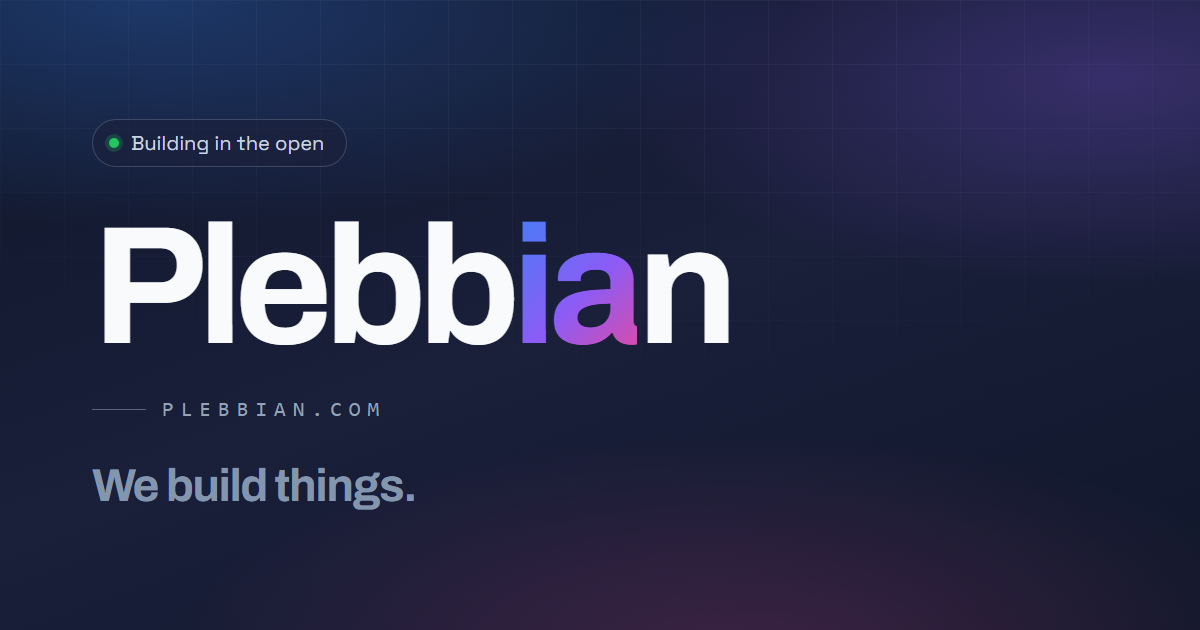
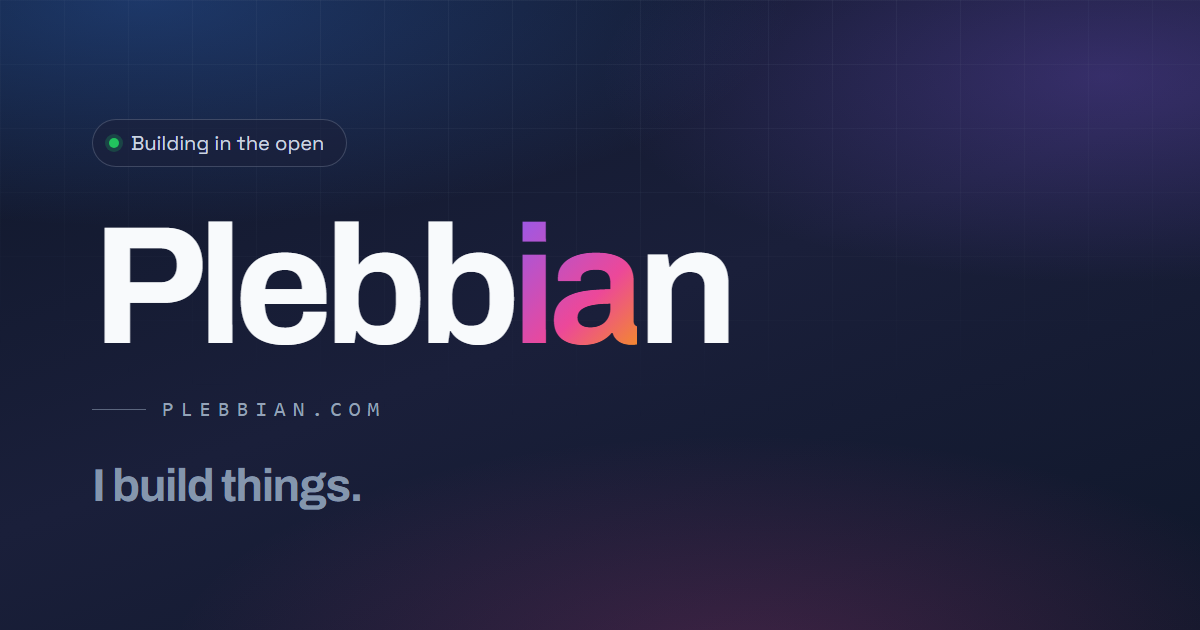
Slow the wordmark down, rework the AI glow, switch copy to first person
Glow
- The AI glyphs are now outlined rather than filled: transparent fill
  with a 1.6px stroke whose colour drifts between pink and gold, and a
  soft bloom breathing behind them over 3.8s. The two letters carry
  offset animation delays so the drift reads as a wave through the pair
  rather than one flat blink.
- The glow was rendering as a rectangle because .wordmark.animating .g
  set overflow:hidden on every glyph, which clipped each letter's
  text-shadow to its element box. Clipping is now scoped to the slots
  that actually collapse (b, n, the space), and the halo is a
  drop-shadow() chain, which samples the glyph's alpha and so takes the
  shape of the letters. Verified: max single-pixel luminance step
  around a lit glyph is 0.79/255, at a different x on each row — no
  hard edge anywhere.
- Outline hands over to the settled gradient on a case-flicker frame,
  so the fill-in is covered by a character change instead of popping.
  The settled ia keeps a faint bloom in dark mode and none in light,
  where a glow behind dark text only reads as smudge.
- Settled gradient rewarmed to violet -> pink -> gold to match.

Pacing, 3.9s -> 5.0s
- AI glide lengthened to 1.05s with a gentler curve, and it now holds
  for ~1.3s glowing alone before b and n arrive
- Swap arc 620ms -> 760ms with a softer easing; case cycle slowed

Copy
- Every plural pronoun is now singular: "I build things", "What I do",
  "How I work", "Come build with me", "drop me a line", "Email me"
[…]

Changed region(s): [[0.0617, 0.7238, 0.3392, 0.8143], [0.4317, 0.3317, 0.555, 0.5429]]

diff --git a/assets/wordmark.js b/assets/wordmark.js
@@ -63,7 +63,7 @@
         root.classList.remove('animating');
         glyphs.forEach(function (g) {
             g.removeAttribute('style');
-            g.classList.remove('lit', 'swapping');
+            g.classList.remove('lit', 'filling', 'swapping');
         });
         ai1.textContent = 'i';
         ai2.textContent = 'a';
@@ -127,42 +127,48 @@
             g.style.transition = 'none';
             g.style.opacity = '0';
             g.style.transform = 'translateY(0.22em)';
-            at(40 + i * 70, function () {
-                g.style.transition = 'opacity 0.4s ease, transform 0.5s var(--ease)';
+            at(60 + i * 105, function () {
+                g.style.transition = 'opacity 0.5s ease, transform 0.6s var(--ease)';
                 g.style.opacity = '1';
                 g.style.transform = 'none';
             });
         });
 
-        /* ---- beat 2: "Pleb AI" — AI glides in from the right ---------- */
-        at(560, function () {
+        /* ---- beat 2: "Pleb AI" — AI drifts in from the right ---------- */
+        at(700, function () {
             slotSpace.style.width = spaceWidth + 'px';
 
             [ai1, ai2].forEach(function (g, i) {
                 g.classList.add('lit');
+                // Offset the two glyphs' pulse so the pink/gold drift reads as
+                // a wave moving through the pair rather than one flat blink.
+                g.style.animationDelay = (i * -0.9) + 's';
                 g.style.transition = 'none';
                 g.style.width = uniform + 'px';
-                // Off to the right, the far letter trailing slightly behind.
-                g.style.transform = 'translateX(' + (340 + i * 90) + 'px)';
+                // Off to the right, the far letter trailing behind.
+                g.style.transform = 'translateX(' + (330 + i * 110) + 'px)';
                 g.style.opacity = '0';
 
                 at(30, function () {
+                    // Long, decelerating glide — the "chill" part.
                     g.style.transition =
-                        'transform 0.78s var(--ease) ' + (i * 0.07) + 's, opacity 0.5s ease ' + (i * 0.07) + 's';
+                        'transform 1.05s cubic-bezier(0.16, 1, 0.3, 1) ' + (i * 0.1) + 's,' +
+                        'opacity 0.75s ease ' + (i * 0.1) + 's';
                     g.style.transform = 'none';
                     g.style.opacity = '1';
                 });
             });
         });
 
-        /* ---- beat 3: "PlebbAIn" — b and n float in ------------------- */
-        at(1480, function () {
+        /* ---- beat 3: "PlebbAIn" — b and n float in -------------------
+           Held a moment first so the outline glow gets to breathe alone. */
+        at(2050, function () {
             slotSpace.style.width = '0px';
             [[slotB, naturalB], [slotN, naturalN]].forEach(function (pair, i) {
                 var g = pair[0];
-                at(i * 120, function () {
+                at(i * 130, function () {
                     g.style.transition =
-                        'width 0.5s var(--ease), opacity 0.42s ease, transform 0.55s var(--ease)';
+                        'width 0.55s var(--ease), opacity 0.5s ease, transform 0.6s var(--ease)';
                     g.style.width = pair[1] + 'px';
                     g.style.opacity = '1';
                     g.style.transform = 'none';
@@ -171,11 +177,11 @@
         });
 
         /* ---- beat 4: "PlebbIAn" — the swap, on an arc ---------------- */
-        at(2180, function () {
+        at(2950, function () {
             // Both slots share `uniform` width, so the centre-to-centre
             // distance is symmetric and the exchange is exact.
             var d = ai2.getBoundingClientRect().left - ai1.getBoundingClientRect().left;
-            var dur = 620;
+            var dur = 760;
 
             function arc(el, dx, lift) {
                 if (!el.animate) {
@@ -187,7 +193,7 @@
                     { transform: 'translateX(0) translateY(0)' },
                     { transform: 'translateX(' + (dx / 2) + 'px) translateY(' + lift + 'em)' },
                     { transform: 'translateX(' + dx + 'px) translateY(0)' }
-                ], { duration: dur, easing: 'cubic-bezier(0.65, 0, 0.35, 1)', fill: 'forwards' });
+                ], { duration: dur, easing: 'cubic-bezier(0.5, 0, 0.5, 1)', fill: 'forwards' });
             }
 
             ai1.classList.add('swapping');
@@ -213,39 +219,48 @@
         });
 
         /* ---- beat 5: case cycles down to "Plebbian" ------------------ */
-        at(2900, function () {
+        at(3820, function () {
             var frames = [
                 ['i', 'a'], ['I', 'A'], ['i', 'a'], ['I', 'A'], ['i', 'a']
             ];
+            var step = 115;
+
             frames.forEach(function (pair, i) {
-                at(i * 88, function () {
+                at(i * step, function () {
                     ai1.textContent = pair[0];
                     ai2.textContent = pair[1];
+
+                    // Swap outline for the settled gradient on a flicker frame:
+                    // the character change covers the handover, so the fill-in
+                    // reads as intentional rather than as a pop.
+                    if (i === 2) {
+                        root.classList.add('settled');
+                        [ai1, ai2].forEach(function (g) {
+                            g.classList.add('filling');
+                            g.classList.remove('lit');
+                        });
+                    }
                 });
             });
 
-            // Glow retires into the permanent gradient tint, and the slots
-            // relax from the uniform box to their true widths.
-            at(frames.length * 88 + 60, function () {
-                ai1.classList.remove('lit');
-                ai2.classList.remove('lit');
-                root.classList.add('settled');
-                ai1.style.transition = 'width 0.45s var(--ease)';
-                ai2.style.transition = 'width 0.45s var(--ease)';
-                ai1.style.width = naturalAi1 + 'px';
-                ai2.style.width = naturalAi2 + 'px';
+            // Slots relax from the uniform box back to their true widths.
+            at(frames.length * step + 70, function () {
+                [[ai1, naturalAi1], [ai2, naturalAi2]].forEach(function (pair) {
+                    pair[0].style.transition = 'width 0.5s var(--ease)';
+                    pair[0].style.width = pair[1] + 'px';
+                });
             });
         });
 
         /* ---- beat 6: the domain stamp -------------------------------- */
-        at(3260, function () {
+        at(4380, function () {
             if (!domain) return;
             domain.classList.add('revealing');
             domain.classList.remove('pending');
         });
 
         /* ---- cleanup: hand layout back to normal text flow ----------- */
-        at(3820, function () {
+        at(4980, function () {
             settle();
             try { sessionStorage.setItem(SESSION_KEY, '1'); } catch (e) { /* private mode */ }
         });

diff --git a/assets/style.css b/assets/style.css
@@ -84,6 +84,7 @@
     --shadow-lg: 0 26px 70px rgba(2, 6, 23, 0.62);
     --dot: rgba(148, 163, 184, 0.55);
     --grid-line: rgba(148, 163, 184, 0.06);
+    --ai-rest-glow: drop-shadow(0 0 12px rgba(236, 72, 153, 0.28));
 }
 
 :root[data-theme='light'] {
@@ -113,6 +114,8 @@
     --shadow-lg: 0 26px 70px rgba(15, 23, 42, 0.14);
     --dot: rgba(51, 65, 85, 0.5);
     --grid-line: rgba(15, 23, 42, 0.05);
+    /* A bloom behind dark text on a light page just reads as smudge. */
+    --ai-rest-glow: none;
 }
 
 /* --------------------------------------------------------------------------
@@ -748,10 +751,12 @@ kbd {
    so the static logo still carries the idea after the animation ends. */
 .wordmark.settled .g.ai,
 .wordmark:not(.animating) .g.ai {
-    background: linear-gradient(135deg, var(--blue), var(--violet) 55%, var(--pink));
+    background: linear-gradient(135deg, var(--violet), var(--pink) 60%, var(--amber));
     -webkit-background-clip: text;
     background-clip: text;
     -webkit-text-fill-color: transparent;
+    /* A whisper of the bloom stays, so settling isn't an abrupt cut. */
+    filter: var(--ai-rest-glow, none);
 }
 
 /* While the sequence runs, glyphs are absolute-width flex slots so
@@ -762,26 +767,58 @@ kbd {
 }
 
 .wordmark.animating .g {
-    overflow: hidden;
-    transition: width 0.55s var(--ease), opacity 0.45s ease, transform 0.55s var(--ease);
+    transition: width 0.6s var(--ease), opacity 0.5s ease, transform 0.6s var(--ease);
 }
 
-.wordmark.animating .g.spacer { transition: width 0.5s var(--ease); }
+/* Only the slots that collapse to zero need clipping. Applying it to the AI
+   glyphs would chop their glow off square at the element box — which is why
+   the halo must be a filter, never a text-shadow on a clipped box. */
+.wordmark.animating .g.collapsible { overflow: hidden; }
 
-/* "AI" while it is still AI: a slow breathing bloom, not a hard neon. */
-.wordmark.animating .g.ai.lit {
-    -webkit-text-fill-color: currentColor;
-    color: #fff;
-    text-shadow:
-        0 0 14px color-mix(in srgb, var(--violet) 85%, transparent),
-        0 0 38px color-mix(in srgb, var(--blue) 65%, transparent),
-        0 0 76px color-mix(in srgb, var(--violet) 45%, transparent);
-    animation: aiBreathe 2.6s ease-in-out infinite;
+.wordmark.animating .g.spacer { transition: width 0.55s var(--ease); }
+
+/* --------------------------------------------------------------------------
+   "AI" while it is still AI: outlined letters in pink and gold, with the
+   stroke colour drifting between the two and a soft bloom breathing behind.
+
+   drop-shadow() samples the glyph's alpha, so the glow takes the shape of
+   the letters. box-shadow or a text-shadow inside an overflow-hidden box
+   would both give away the rectangle.
+   -------------------------------------------------------------------------- */
+.wordmark .g.ai.lit {
+    background: none;
+    -webkit-text-fill-color: transparent;
+    color: transparent;
+    -webkit-text-stroke: 1.6px var(--pink);
+    animation: aiDrift 3.8s ease-in-out infinite;
+    /* Slow enough to read as breathing rather than blinking. */
+    transition: -webkit-text-stroke-width 0.6s ease, filter 0.6s ease;
 }
 
-@keyframes aiBreathe {
-    0%, 100% { opacity: 0.92; }
-    50%      { opacity: 1; }
+@keyframes aiDrift {
+    0%, 100% {
+        -webkit-text-stroke-color: #ec4899;
+        filter:
+            drop-shadow(0 0 5px color-mix(in srgb, var(--pink) 78%, transparent))
+            drop-shadow(0 0 17px color-mix(in srgb, var(--amber) 40%, transparent))
+            drop-shadow(0 0 38px color-mix(in srgb, var(--pink) 24%, transparent));
+    }
+    50% {
+        -webkit-text-stroke-color: #f59e0b;
+        filter:
+            drop-shadow(0 0 8px color-mix(in srgb, var(--amber) 82%, transparent))
+            drop-shadow(0 0 24px color-mix(in srgb, var(--pink) 46%, transparent))
+            drop-shadow(0 0 50px color-mix(in srgb, var(--amber) 26%, transparent));
+    }
+}
+
+/* The moment the outline fills in: stroke thins away to nothing while the
+   settled gradient takes over underneath, and the bloom retires. */
+.wordmark .g.ai.filling {
+    -webkit-text-stroke-width: 0;
+    animation: none;
+    filter: drop-shadow(0 0 14px color-mix(in srgb, var(--pink) 30%, transparent));
+    transition: -webkit-text-stroke-width 0.55s ease, filter 0.7s ease;
 }
 
 .wordmark .g.swapping {

diff --git a/index.html b/index.html
@@ -3,7 +3,7 @@
 <head>
     <meta charset="UTF-8">
     <meta name="viewport" content="width=device-width, initial-scale=1.0">
-    <meta name="description" content="Plebbian — a small crew shipping community tools, open-source utilities and experiments worth using. Building in the open.">
+    <meta name="description" content="Plebbian — I ship community tools, open-source utilities and experiments worth using. Building in the open.">
     <meta name="author" content="Plebbian">
     <meta name="theme-color" content="#0f172a">
 
@@ -142,7 +142,7 @@
                     <!-- Resting state is the real wordmark; the sequence in
                          wordmark.js is purely additive. Whitespace between
                          these spans would render as gaps, so there is none. -->
-                    <span class="wordmark" id="wordmark" aria-hidden="true"><span class="g">P</span><span class="g">l</span><span class="g">e</span><span class="g">b</span><span class="g" data-role="b2">b</span><span class="g spacer" data-role="space"></span><span class="g ai" data-role="ai1">i</span><span class="g ai" data-role="ai2">a</span><span class="g" data-role="n">n</span></span>
+                    <span class="wordmark" id="wordmark" aria-hidden="true"><span class="g">P</span><span class="g">l</span><span class="g">e</span><span class="g">b</span><span class="g collapsible" data-role="b2">b</span><span class="g spacer collapsible" data-role="space"></span><span class="g ai" data-role="ai1">i</span><span class="g ai" data-role="ai2">a</span><span class="g collapsible" data-role="n">n</span></span>
                 </h1>
 
                 <p class="wm-domain" id="wmDomain">
@@ -153,11 +153,11 @@
                     </button>
                 </p>
 
-                <p class="hero-tagline">We build things.</p>
+                <p class="hero-tagline">I build things.</p>
 
                 <p class="hero-copy">
-                    A small crew shipping community tools, open-source utilities and
-                    experiments worth using. No hype, no lock-in — just software that works.
+                    I ship community tools, open-source utilities and experiments worth
+                    using. No hype, no lock-in — just software that works.
                 </p>
 
                 <div class="hero-actions">
@@ -182,11 +182,11 @@
             </div>
         </section>
 
-        <!-- ======================= What we do ======================= -->
+        <!-- ======================= What I do ======================= -->
         <section id="what">
             <div class="wrap">
                 <div class="section-head reveal">
-                    <span class="eyebrow">What we do</span>
+                    <span class="eyebrow">What I do</span>
                     <h2>Three things, <span class="muted">done properly.</span></h2>
                 </div>
 
@@ -248,7 +248,7 @@
         <section id="join">
             <div class="wrap">
                 <div class="contact reveal">
-                    <h2>Come build with <span class="gradient-text">us.</span></h2>
+                    <h2>Come build with <span class="gradient-text">me.</span></h2>
                     <p>
                         Everything happens in the open. Join the Discord, browse the repos,
                         or just lurk — all of it is fine.
@@ -273,7 +273,7 @@
                             <svg class="i" aria-hidden="true"><use href="#i-discord"></use></svg>
                         </a>
                         <!-- TODO: confirm this address actually receives mail -->
-                        <a class="icon-btn" href="mailto:hello@plebbian.com" aria-label="Email us">
+                        <a class="icon-btn" href="mailto:hello@plebbian.com" aria-label="Email me">
                             <svg class="i" aria-hidden="true"><use href="#i-mail"></use></svg>
                         </a>
                     </div>

diff --git a/portfolio.html b/portfolio.html
@@ -162,22 +162,22 @@
             <div class="wrap">
                 <div class="section-head reveal">
                     <span class="eyebrow">About</span>
-                    <h2>Builders who <span class="muted">actually ship.</span></h2>
+                    <h2>A builder who <span class="muted">actually ships.</span></h2>
                 </div>
 
                 <div class="bento">
                     <!-- TODO: rewrite this in your own words -->
                     <div class="cell cell-wide reveal">
                         <span class="cell-icon"><svg class="i" aria-hidden="true"><use href="#i-terminal"></use></svg></span>
-                        <h3>How we work</h3>
+                        <h3>How I work</h3>
                         <p>
                             Plebbian started as a side project and turned into a place to build
-                            properly. Mostly TypeScript, React and Node, with a healthy amount of
-                            Python and infrastructure glue holding it together.
+                            properly. I work mostly in TypeScript, React and Node, with a healthy
+                            amount of Python and infrastructure glue holding it together.
                         </p>
                         <p>
-                            Good code matters to us. So does accessibility, sane API design and
-                            making the UI feel right. We try hard not to over-engineer things.
+                            Good code matters to me. So does accessibility, sane API design and
+                            making the UI feel right. I try hard not to over-engineer things.
                         </p>
                     </div>
 
@@ -198,7 +198,7 @@
                     </div>
 
                     <div class="cell cell-wide reveal">
-                        <h3>What we care about</h3>
+                        <h3>What I care about</h3>
                         <p>
                             Software that stays fast under real use, interfaces that work with a
                             keyboard and a screen reader, and APIs you can understand without a
@@ -267,7 +267,7 @@
             <div class="wrap">
                 <div class="section-head center reveal">
                     <span class="eyebrow">Stack</span>
-                    <h2>What we <span class="muted">build with.</span></h2>
+                    <h2>What I <span class="muted">build with.</span></h2>
                     <p>Languages detected across the public repositories, plus the tools around them.</p>
                 </div>
 
@@ -303,7 +303,7 @@
                     <h2>Let's build something <span class="gradient-text">great.</span></h2>
                     <p>
                         Open to collaborations, contributions and good ideas. Hop into the
-                        Discord or drop us a line — we read everything.
+                        Discord or drop me a line — I read everything.
                     </p>
 
                     <div class="contact-actions">
@@ -325,7 +325,7 @@
                         <a class="icon-btn" href="https://discord.gg/plebbian" target="_blank" rel="noopener noreferrer" aria-label="Discord server">
                             <svg class="i" aria-hidden="true"><use href="#i-discord"></use></svg>
                         </a>
-                        <a class="icon-btn" href="mailto:hello@plebbian.com" aria-label="Email us">
+                        <a class="icon-btn" href="mailto:hello@plebbian.com" aria-label="Email me">
                             <svg class="i" aria-hidden="true"><use href="#i-mail"></use></svg>
                         </a>
                     </div>

diff --git a/assets/app.js b/assets/app.js
@@ -667,7 +667,7 @@
         items.push(
             { label: 'Toggle theme', action: function () { themeBtn && themeBtn.click(); }, icon: 'moon' },
             { label: 'GitHub profile', href: 'https://github.com/' + GH_USER, icon: 'github', external: true },
-            { label: 'Email us', href: 'mailto:hello@plebbian.com', icon: 'mail', external: true }
+            { label: 'Email me', href: 'mailto:hello@plebbian.com', icon: 'mail', external: true }
         );
 
         function render() {
